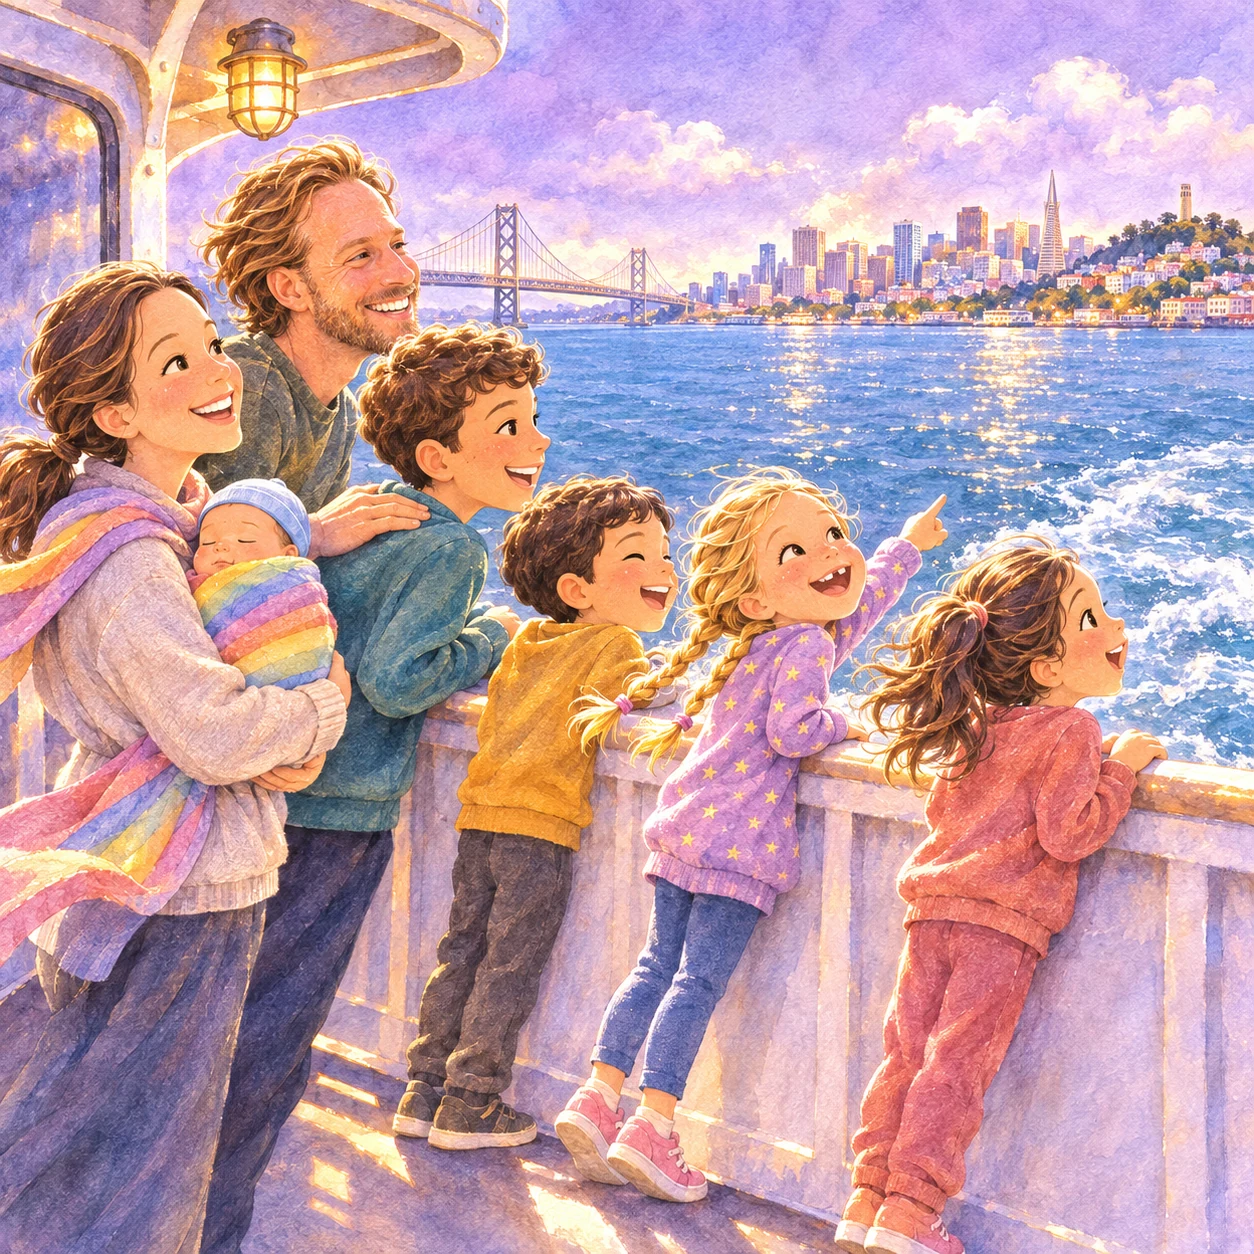
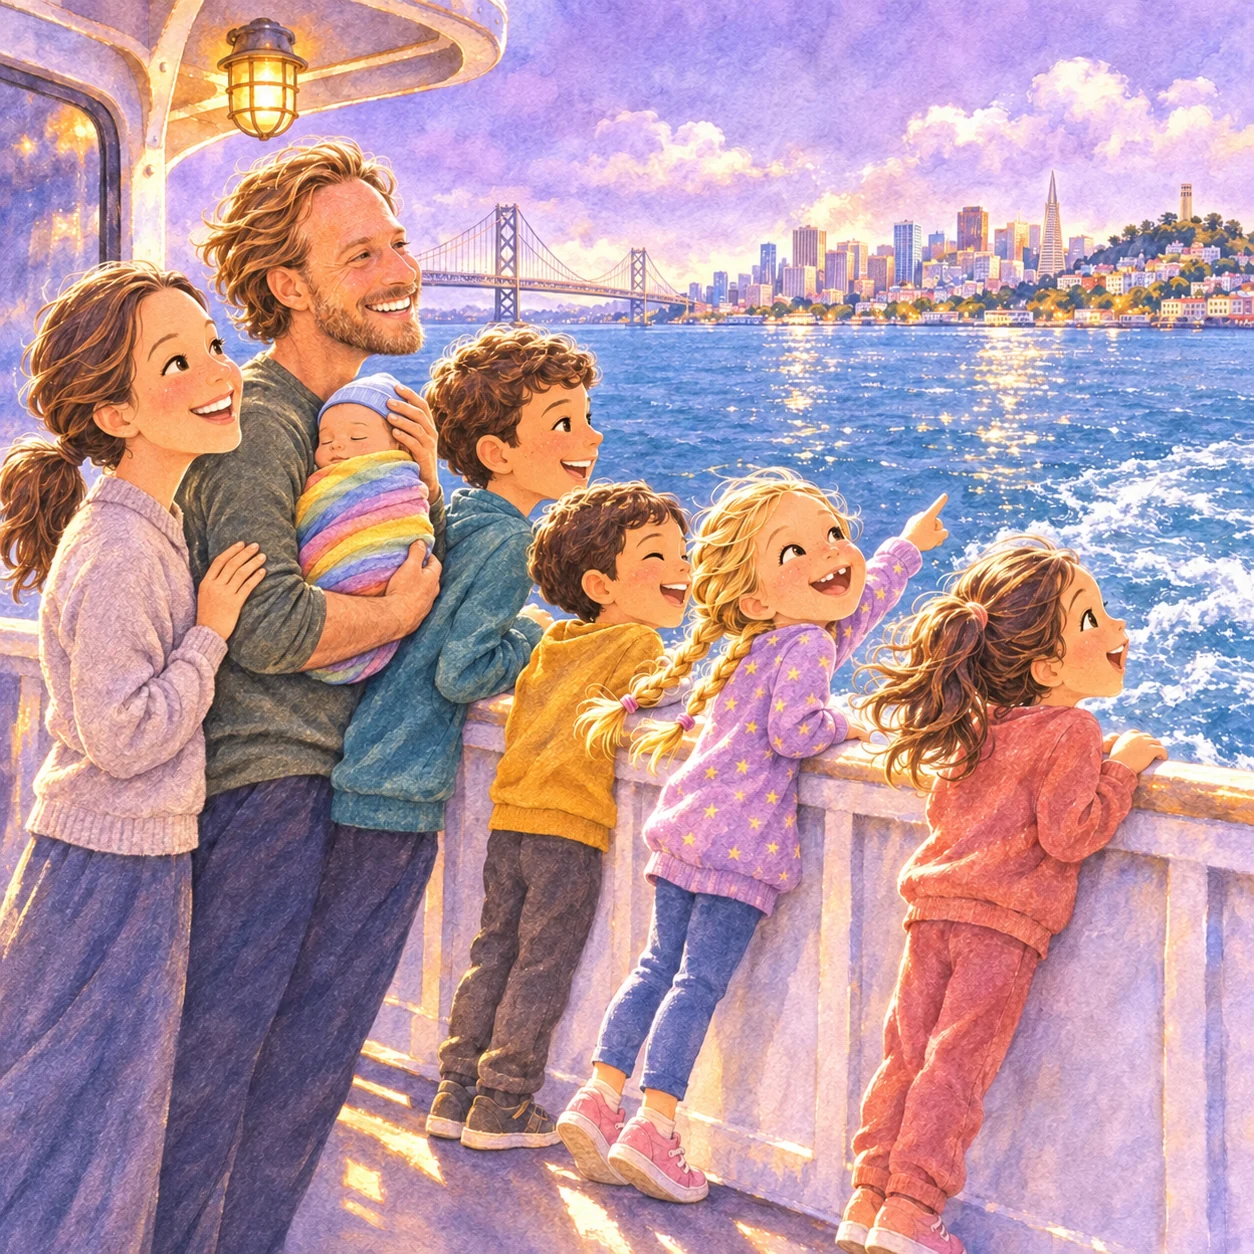
Revise cousin book family scenes and clarify waking from dream

diff --git a/stories.html b/stories.html
@@ -1,1 +1,1 @@
-<!doctype html><html lang="en"><head><meta charset="utf-8"><meta name="viewport" content="width=device-width,initial-scale=1"><title>Story Review · Miri’s Little World</title><link rel="icon" href="shared/favicon.svg?v=stack1"><link rel="stylesheet" href="shared/review.css"><link rel="apple-touch-icon" sizes="180x180" href="shared/apple-touch-icon-v2.png"><link rel="icon" type="image/png" sizes="192x192" href="shared/icon-192-v2.png"></head><body><header class="gallery-header"><a href="./" class="wordmark"><img src="shared/favicon.svg" alt="">Miri’s Little World</a><a href="./">Bookshelf <span>↗</span></a></header><main><section class="drafts-intro"><p class="kicker">STORIES FOR MIRI & AVI</p><h1>Little moments.<br>Stories to keep.</h1><p>Illustrated stories for reading together, around age four. Review each book’s numbered words and pictures here.</p><nav class="draft-navigation" aria-label="Story drafts"></nav></section><div id="drafts"></div><a href="./" class="back-gallery">← Back to the bookshelf</a></main><footer class="gallery-footer"><span>Made with love, for Miri & her people.</span><span>Every day is a story.</span></footer><script src="shared/books.js?v=six-sleeps1"></script><script>document.querySelector('.draft-navigation').innerHTML=window.BOOKS.map(b=>`<a href="#${b.id}">${b.title}</a>`).join('');document.querySelector('#drafts').innerHTML=window.BOOKS.map(b=>`<section class="draft-book" id="${b.id}"><p class="kicker">${b.category.toUpperCase()}</p><h2>${b.title}</h2><p>${b.style} illustrations · ${b.motion==='ripple'?'A watery ripple':b.motion==='flutter'?'A paper flutter':'A classic page turn'} between pages</p><div class="draft-actions"><a href="./#book=${b.id}&page=-1">Open the book ↗</a></div><div class="draft-pages">${b.pages.map((p,i)=>`<article class="draft-page"><img src="shared/assets/${b.id}-${i+1}.webp?v=family2" alt="${p.alt.replace(/"/g,'&quot;')}" loading="lazy"><div><span>PAGE ${i+1}</span><p>${p.text}</p></div></article>`).join('')}</div></section>`).join('');</script></body></html>
+<!doctype html><html lang="en"><head><meta charset="utf-8"><meta name="viewport" content="width=device-width,initial-scale=1"><title>Story Review · Miri’s Little World</title><link rel="icon" href="shared/favicon.svg?v=stack1"><link rel="stylesheet" href="shared/review.css"><link rel="apple-touch-icon" sizes="180x180" href="shared/apple-touch-icon-v2.png"><link rel="icon" type="image/png" sizes="192x192" href="shared/icon-192-v2.png"></head><body><header class="gallery-header"><a href="./" class="wordmark"><img src="shared/favicon.svg" alt="">Miri’s Little World</a><a href="./">Bookshelf <span>↗</span></a></header><main><section class="drafts-intro"><p class="kicker">STORIES FOR MIRI & AVI</p><h1>Little moments.<br>Stories to keep.</h1><p>Illustrated stories for reading together, around age four. Review each book’s numbered words and pictures here.</p><nav class="draft-navigation" aria-label="Story drafts"></nav></section><div id="drafts"></div><a href="./" class="back-gallery">← Back to the bookshelf</a></main><footer class="gallery-footer"><span>Made with love, for Miri & her people.</span><span>Every day is a story.</span></footer><script src="shared/books.js?v=six-sleeps3"></script><script>document.querySelector('.draft-navigation').innerHTML=window.BOOKS.map(b=>`<a href="#${b.id}">${b.title}</a>`).join('');document.querySelector('#drafts').innerHTML=window.BOOKS.map(b=>`<section class="draft-book" id="${b.id}"><p class="kicker">${b.category.toUpperCase()}</p><h2>${b.title}</h2><p>${b.style} illustrations · ${b.motion==='ripple'?'A watery ripple':b.motion==='flutter'?'A paper flutter':'A classic page turn'} between pages</p><div class="draft-actions"><a href="./#book=${b.id}&page=-1">Open the book ↗</a></div><div class="draft-pages">${b.pages.map((p,i)=>`<article class="draft-page"><img src="shared/assets/${b.id}-${i+1}.webp?v=${b.imageVersion||'family2'}" alt="${p.alt.replace(/"/g,'&quot;')}" loading="lazy"><div><span>PAGE ${i+1}</span><p>${p.text}</p></div></article>`).join('')}</div></section>`).join('');</script></body></html>

diff --git a/shared/books.js b/shared/books.js
@@ -205,6 +205,7 @@ window.BOOKS = [
   },
   {
     "id": "six-sleeps",
+    "imageVersion": "six-sleeps3",
     "title": "Six Sleeps Until Cousin Hugs",
     "short": "Six sleeps. So many dreams. One great big cousin hug.",
     "category": "A Thanksgiving cousin adventure",
@@ -230,7 +231,7 @@ window.BOOKS = [
       },
       {
         "text": "Then they sailed on the ferry to San Francisco. Whoosh went the wind! Splash went the waves! “Look!” shouted Miri. “The city is getting bigger!” Her cousins leaned close to see.",
-        "alt": "Miri, Levi, Matan and Ayla look toward San Francisco from a ferry railing with Abba and Mama carrying baby Avi."
+        "alt": "Miri, Levi, Matan and Ayla look toward San Francisco from a ferry railing while Abba cradles rainbow-swaddled baby Avi and Mama smiles beside them."
       },
       {
         "text": "At Adventure Playground, Miri had important work to do. Tap, tap, tap! With Abba helping, she hammered a nail into wood. Levi and Matan were builders, too. “Our cousin construction crew!” said Miri.",
@@ -242,7 +243,7 @@ window.BOOKS = [
       },
       {
         "text": "Matan climbed up to the zip line. “Wheeeee!” Miri was still too little for that ride. Today, she was the cheering crew. “Go, Matan, go!” she called, louder than anyone.",
-        "alt": "Matan sits on the zip-line seat while Miri, Levi and Ayla cheer beside Abba, with Mama and Avi safely to the side."
+        "alt": "Mama crouches beside Miri and holds her as she cheers with Levi and Ayla for Matan on the zip line; Abba stands safely behind them holding baby Avi in his rainbow blanket."
       },
       {
         "text": "Next, their dream became a castle. Queen Miri and King Avi welcomed their cousins. “Levi! Matan! Ayla!” called the queen. “You are just in time for the royal giggling!”",
@@ -265,8 +266,8 @@ window.BOOKS = [
         "alt": "Helmeted Miri leads a bicycle parade on her blue bike with Levi, Matan and Ayla while Abba walks nearby and Mama pushes Avi’s stroller."
       },
       {
-        "text": "Morning sunshine peeked into Miri’s room. She ran to Mama, Abba, and Avi. “FIVE sleeps!” she announced. “And I already dreamed up our adventures!” Avi waved one tiny hand.",
-        "alt": "Miri greets Mama, Abba and rainbow-swaddled Avi in a sunlit bedroom, excited that only five sleeps remain."
+        "text": "Miri woke up in the morning sunshine. The cousin adventures had all been a dream! She ran to Mama and Abba, who was holding Avi. “FIVE sleeps!” she announced. “I dreamed up our adventures!” Avi waved one tiny hand.",
+        "alt": "Wide-awake Miri in lavender pajamas greets Mama and Abba in the morning sunlight, her rumpled bed visible through the doorway; Abba cradles rainbow-swaddled Avi, who waves a tiny hand."
       },
       {
         "text": "Every night, Miri tucked another dream under her pillow. Four sleeps. Three sleeps. Two sleeps. ONE sleep! “Almost here,” she whispered. Even waiting felt like a little adventure.",

diff --git a/index.html b/index.html
@@ -1,1 +1,1 @@
-<!doctype html><html lang="en"><head><meta charset="utf-8"><meta name="viewport" content="width=device-width,initial-scale=1,viewport-fit=cover"><meta name="theme-color" content="#f8ead2"><meta name="description" content="Miri’s little bookshelf. Illustrated stories to read together."><title>Miri’s books · Paper Parade</title><link rel="icon" href="shared/favicon.svg?v=stack1"><link rel="stylesheet" href="shared/library.css?v=landscape-end14"><link rel="apple-touch-icon" sizes="180x180" href="shared/apple-touch-icon-v2.png"><link rel="icon" type="image/png" sizes="192x192" href="shared/icon-192-v2.png"></head><body><a class="skip-link" href="#shelf">Skip to books</a><div id="app"></div><noscript>Please enable JavaScript to read the books.</noscript><script src="shared/books.js?v=six-sleeps1"></script><script src="shared/shelf-order.js?v=navigation12"></script><script src="shared/library.js?v=navigation12"></script></body></html>
+<!doctype html><html lang="en"><head><meta charset="utf-8"><meta name="viewport" content="width=device-width,initial-scale=1,viewport-fit=cover"><meta name="theme-color" content="#f8ead2"><meta name="description" content="Miri’s little bookshelf. Illustrated stories to read together."><title>Miri’s books · Paper Parade</title><link rel="icon" href="shared/favicon.svg?v=stack1"><link rel="stylesheet" href="shared/library.css?v=landscape-end14"><link rel="apple-touch-icon" sizes="180x180" href="shared/apple-touch-icon-v2.png"><link rel="icon" type="image/png" sizes="192x192" href="shared/icon-192-v2.png"></head><body><a class="skip-link" href="#shelf">Skip to books</a><div id="app"></div><noscript>Please enable JavaScript to read the books.</noscript><script src="shared/books.js?v=six-sleeps3"></script><script src="shared/shelf-order.js?v=navigation12"></script><script src="shared/library.js?v=six-sleeps3"></script></body></html>

diff --git a/shared/library.js b/shared/library.js
@@ -3,7 +3,7 @@
  const books = window.BOOKS;
  const concept = {name:'Miri’s books',layout:'parade',reader:'paper',font:'round',color:'#f8ead2',ink:'#282751',accent:'#ce4055'};
  const assetRoot = 'shared/assets/';
- const imageUrl = (b,n=0) => `${assetRoot}${b.id}-${n}.webp?v=family2`;
+ const imageUrl = (b,n=0) => `${assetRoot}${b.id}-${n}.webp?v=${b.imageVersion||'family2'}`;
  const frame = b => ({swim:'#97bedc',avi:'#e99eab',adventure:'#e7c658','rainbow-song':'#b8a0cf','six-sleeps':'#bca5d5'}[b.id] || '#97bedc');
  const vars = b => `--book-bg:${b.color};--book-ink:${b.ink};--frame:${frame(b)}`;
  const $ = s => document.querySelector(s);

diff --git a/docs/books/six-sleeps/PLAN.md b/docs/books/six-sleeps/PLAN.md
@@ -2,7 +2,7 @@
 
 - Book ID: six-sleeps
 - Stage: published
-- Current revision: 2 — November 15, 2026
+- Current revision: 3 — November 15, 2026
 - Audience and language: age four, English, read together
 - Story brief: Miri counts six sleeps until Levi, Matan, Aunt Taylor and Uncle Lior visit from Minnesota for Thanksgiving week. Bedtime dreams anticipate the adventures; real arrival closes the book.
 - Feeling and things to avoid: excited, loving, playful; gentle bathroom humor with no gross imagery. No implying the dream adventures already happened.
@@ -10,7 +10,7 @@
 - Motion: existing shared page turn, including portrait-phone full leaf; no new effects.
 - Proposed story-page count: 16, excluding covers.
 - Pacing recommendation: sixteen short pages give each activity room, separate the dream from the real countdown, and leave a full page for arrival hugs.
-- Publication scope: parent approved completing, illustrating and publishing the book on November 15, 2026, with later edits if needed. All 16 approved story texts remain unchanged.
+- Publication scope: parent approved completing, illustrating and publishing the book on November 15, 2026, with later edits if needed. Revision 3 changes page 13's words and illustrations on pages 4, 7 and 13; all other words and page order remain unchanged.
 - Reader: https://talrme.github.io/books/#book=six-sleeps
 - Numbered story review: https://talrme.github.io/books/stories.html#six-sleeps
 - Original approved draft: retained locally under outputs/thanksgiving-draft/.
@@ -56,7 +56,7 @@
 
 - Scene ID: six-sleeps-s04
 - Words: Then they sailed on the ferry to San Francisco. Whoosh went the wind! Splash went the waves! “Look!” shouted Miri. “The city is getting bigger!” Her cousins leaned close to see.
-- Illustration: Dream: ferry deck with railing; San Francisco skyline ahead. Miri, Levi, Matan and Ayla look across the bay, while Abba stands with them and Mama carries rainbow-clad Avi.
+- Illustration: Dream: ferry deck with railing; San Francisco skyline ahead. Miri, Levi, Matan and Ayla look across the bay. Abba safely cradles rainbow-swaddled Avi; Mama stands beside them without the baby.
 - Image status: ready
 - Current asset: shared/assets/six-sleeps-4.webp
 
@@ -80,7 +80,7 @@
 
 - Scene ID: six-sleeps-s07
 - Words: Matan climbed up to the zip line. “Wheeeee!” Miri was still too little for that ride. Today, she was the cheering crew. “Go, Matan, go!” she called, louder than anyone.
-- Illustration: Dream: Matan seated on the zip-line seat, one rider only. Miri cheers from safely outside its path with Levi and Ayla. Abba supervises; Mama holds Avi farther back. Miri does not ride.
+- Illustration: Dream: Matan seated on the zip-line seat, one rider only. Mama crouches beside Miri and holds her as she cheers with Levi and Ayla. Abba stands safely in the background holding infant Avi in his rainbow blanket. Miri does not ride.
 - Image status: ready
 - Current asset: shared/assets/six-sleeps-7.webp
 
@@ -127,8 +127,8 @@
 ### Page 13 — Five sleeps!
 
 - Scene ID: six-sleeps-s13
-- Words: Morning sunshine peeked into Miri’s room. She ran to Mama, Abba, and Avi. “FIVE sleeps!” she announced. “And I already dreamed up our adventures!” Avi waved one tiny hand.
-- Illustration: Real morning: dream edging disappears. Miri in pajamas greets Mama, Abba and rainbow-clad infant Avi. Visiting cousins are not present yet.
+- Words: Miri woke up in the morning sunshine. The cousin adventures had all been a dream! She ran to Mama and Abba, who was holding Avi. “FIVE sleeps!” she announced. “I dreamed up our adventures!” Avi waved one tiny hand.
+- Illustration: Real morning, not a dream: awake Miri wears matching lavender star pajamas and bare feet; her rumpled bed is visible through the doorway. Abba cradles rainbow-swaddled Avi on the parents' bed and Mama welcomes Miri beside him. Clear morning sunlight, no dream clouds or magical sparkles. Visiting cousins are not present yet.
 - Image status: ready
 - Current asset: shared/assets/six-sleeps-13.webp
 
@@ -174,11 +174,14 @@ Its older visitor guide specifies a seated zip-line ride for ages six and older:
 |---|---|---|---|---|
 | 1 | Initial text and illustration plan from parent's brief; confirmed Ayla and Lior | All | None generated; royal image already supplied | Local review |
 | 2 | Parent approved full generation/publication; dreamy watercolor using Spaceship palette; all words and page order preserved | All | 17 finished images, including cover; royal portrait incorporated on page 8 | Published |
+| 3 | Abba holds Avi on pages 4, 7 and 13; Mama holds Miri at zip line; explicitly wake Miri from her dream on page 13 | s04, s07, s13 | Three targeted edits using existing art and private family appearance reference; exact prompts in ART_PROMPTS_REVISION_3.json | Verified for publication |
 
 ## Page mapping after structural revisions
 
 Initial draft: scene s01 maps to page 1 through s16 to page 16. Keep these scene IDs stable when incorporating edits. Interpret page-number feedback against revision 1, then renumber once.
 
 ## Final check
+
+Revision 3: the three edited images were visually reviewed, including phone portrait and landscape reader screenshots. All other artwork and story words remain unchanged. `tests/six-sleeps-revision.cjs` passed 45 checks across phone/tablet/desktop, normal/fullscreen, image decoding/cache versions, waking text, fitting and story review. `tests/portrait-fit.cjs` passed 330 cover and 3,432 story checks across eleven viewports and all navigation settings. These are Chrome-emulated layouts, not physical Safari testing. The built-in image tool produced each edit separately; final optimized assets remain at the existing page paths, original art in Git history, exact prompts in ART_PROMPTS_REVISION_3.json. The optional `imageVersion` field versions this book's art in both reader and review without changing other books' image URLs.
 
 All 17 illustrations have been generated individually and visually reviewed. Current files are square optimized WebP assets; the back cover reuses the front cover. Exact prompts and reference roles are in ART_PROMPTS.json. Responsive and content checks passed: see VERIFICATION.json. The publication includes 288 checked reader layouts across phone, iPad and desktop sizes, both in and out of fullscreen; exact draft words, links, numbering, sharing, replay and reduced motion are verified. Live publication is verified after pushing this release.

diff --git a/README.md b/README.md
@@ -69,7 +69,7 @@ Use the subtle Share button to share the bookshelf, or the exact book currently 
 
 Settings offers illustrated, directly tappable cards for book view, book order, and page turns, with selected choices shown in soft purple. There are no dropdown pickers; changes save immediately in this browser.
 
-Newest book: [Six Sleeps Until Cousin Hugs](https://talrme.github.io/books/#book=six-sleeps), sixteen story pages of dreamy watercolor for Thanksgiving cousin adventures. Its approved words, scene IDs and revision record are in [the book plan](docs/books/six-sleeps/PLAN.md).
+Newest book: [Six Sleeps Until Cousin Hugs](https://talrme.github.io/books/#book=six-sleeps), sixteen story pages of dreamy watercolor for Thanksgiving cousin adventures. Its approved words, scene IDs and revision record are in [the book plan](docs/books/six-sleeps/PLAN.md). Revision 3 puts Avi in Abba's arms on pages 4, 7 and 13, has Mama holding Miri at the zip line, and explicitly shows Miri waking from the dream on page 13. Per-book image versions refresh revised illustrations in both the reader and story review without invalidating other books' images.
 
 Bottom arrows, page links and the counter default to hidden on phones/iPads and smaller windows, leaving the printed numbers on each page. **Settings → Bottom navigation → Auto / Show / Hide** controls this per browser. Auto shows the controls on larger desktop screens. Taps, swipes and keyboard arrows still turn pages in every mode. Tablet fullscreen reserves space for the browser's native close control; phones keep Bookshelf at the left. Landscape phone fullscreen endings use one centered stack: The End, illustration, and Read Again / Bookshelf.
 
